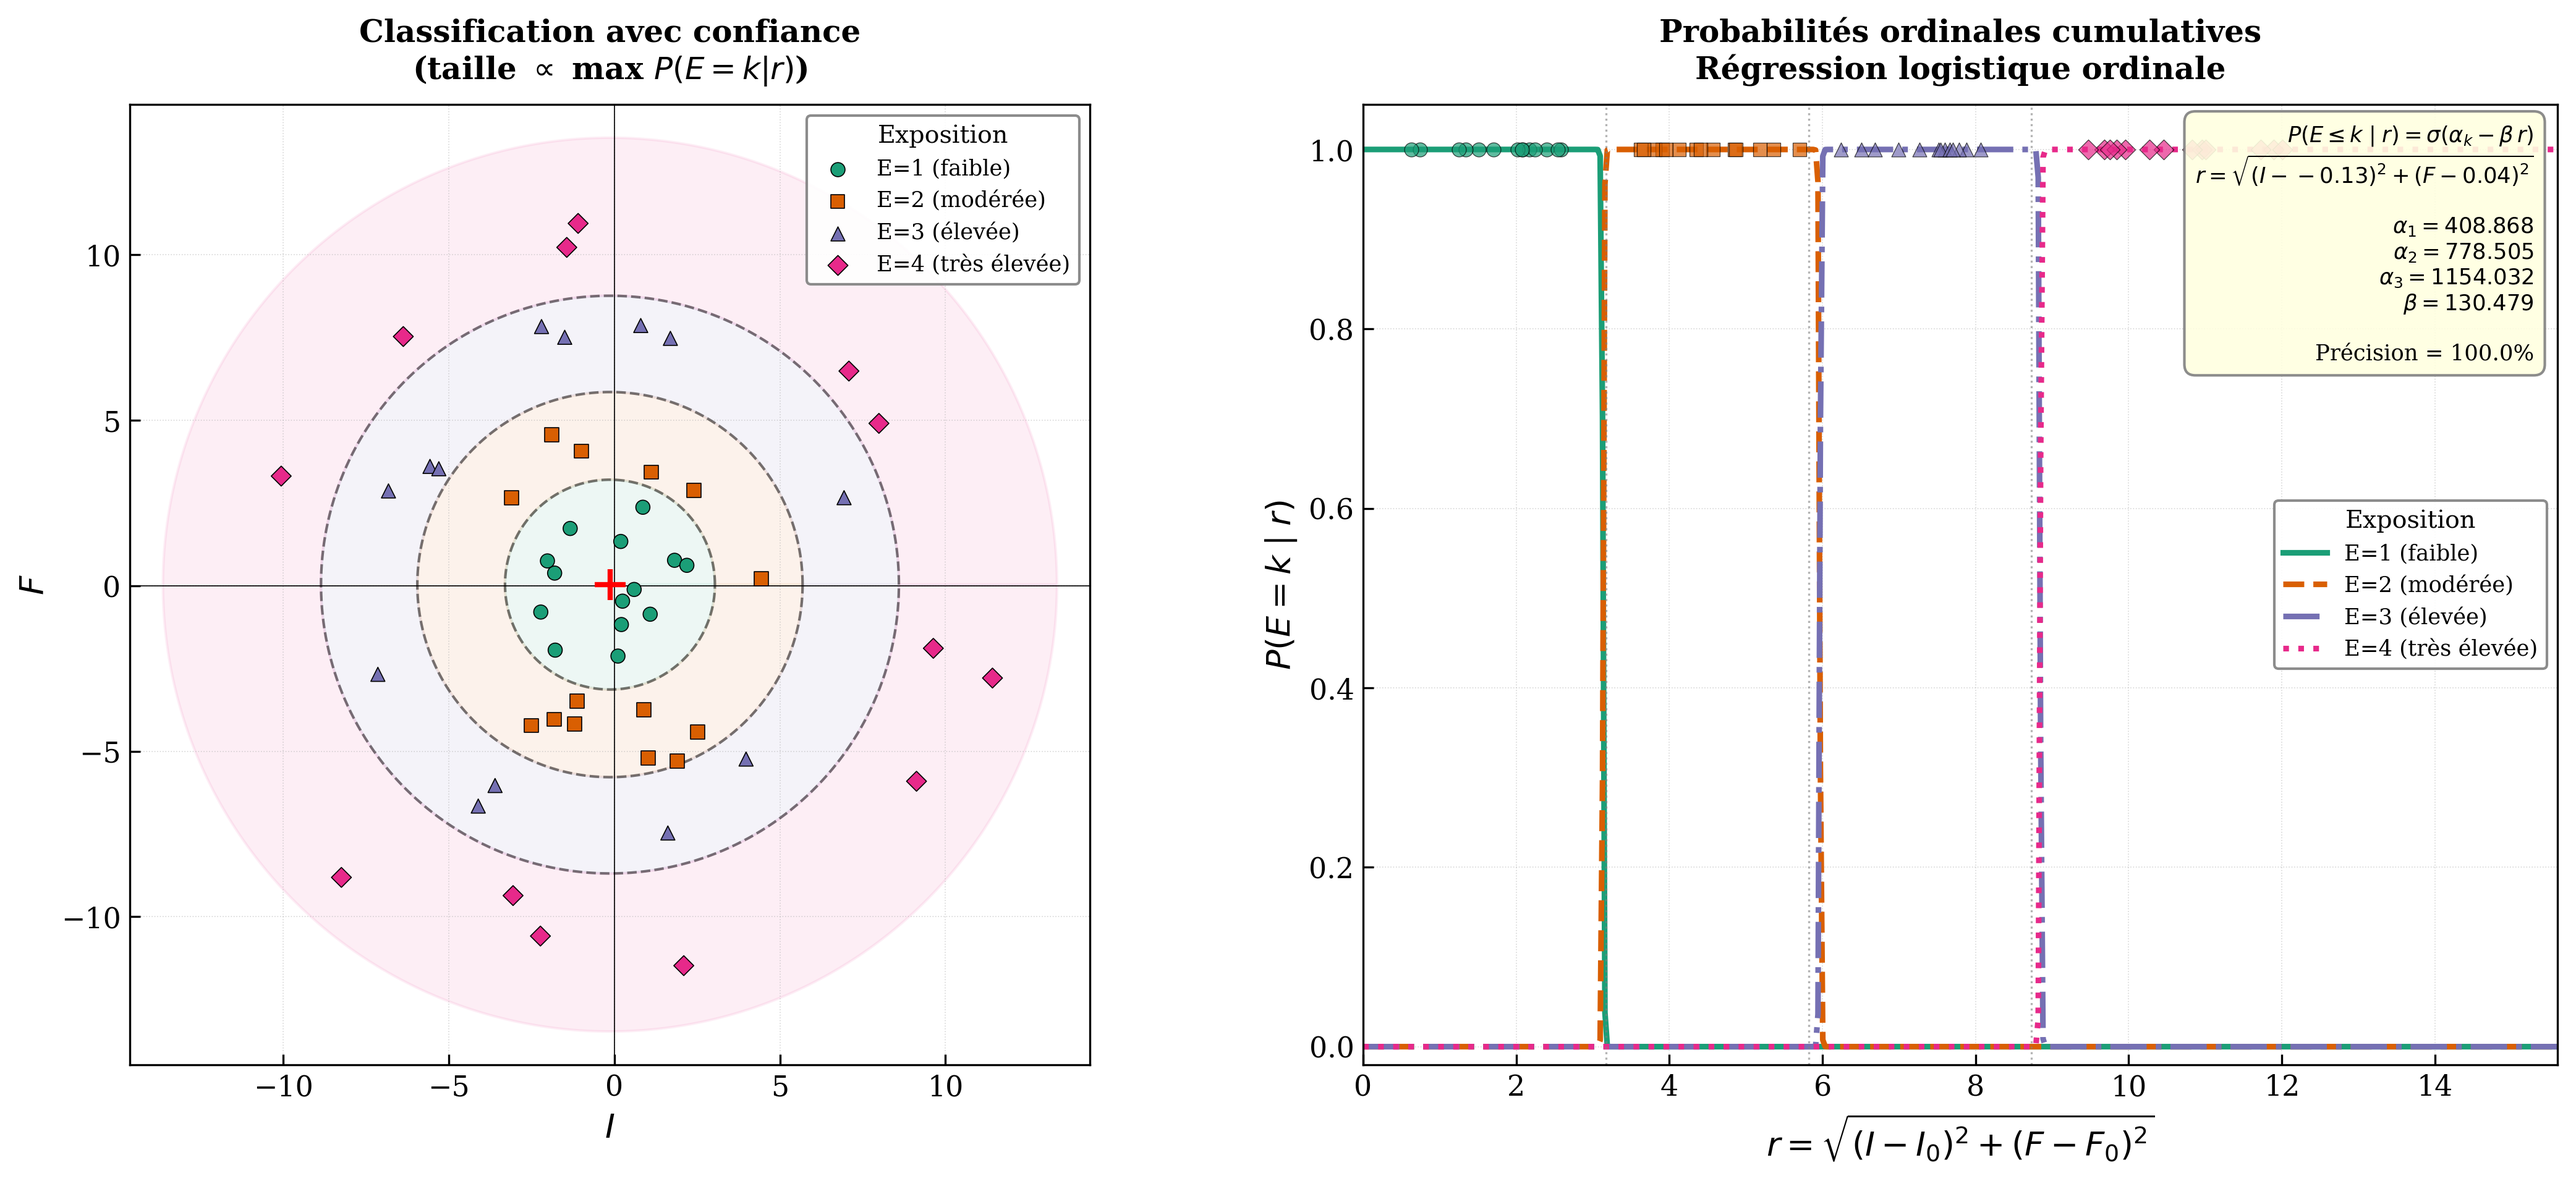
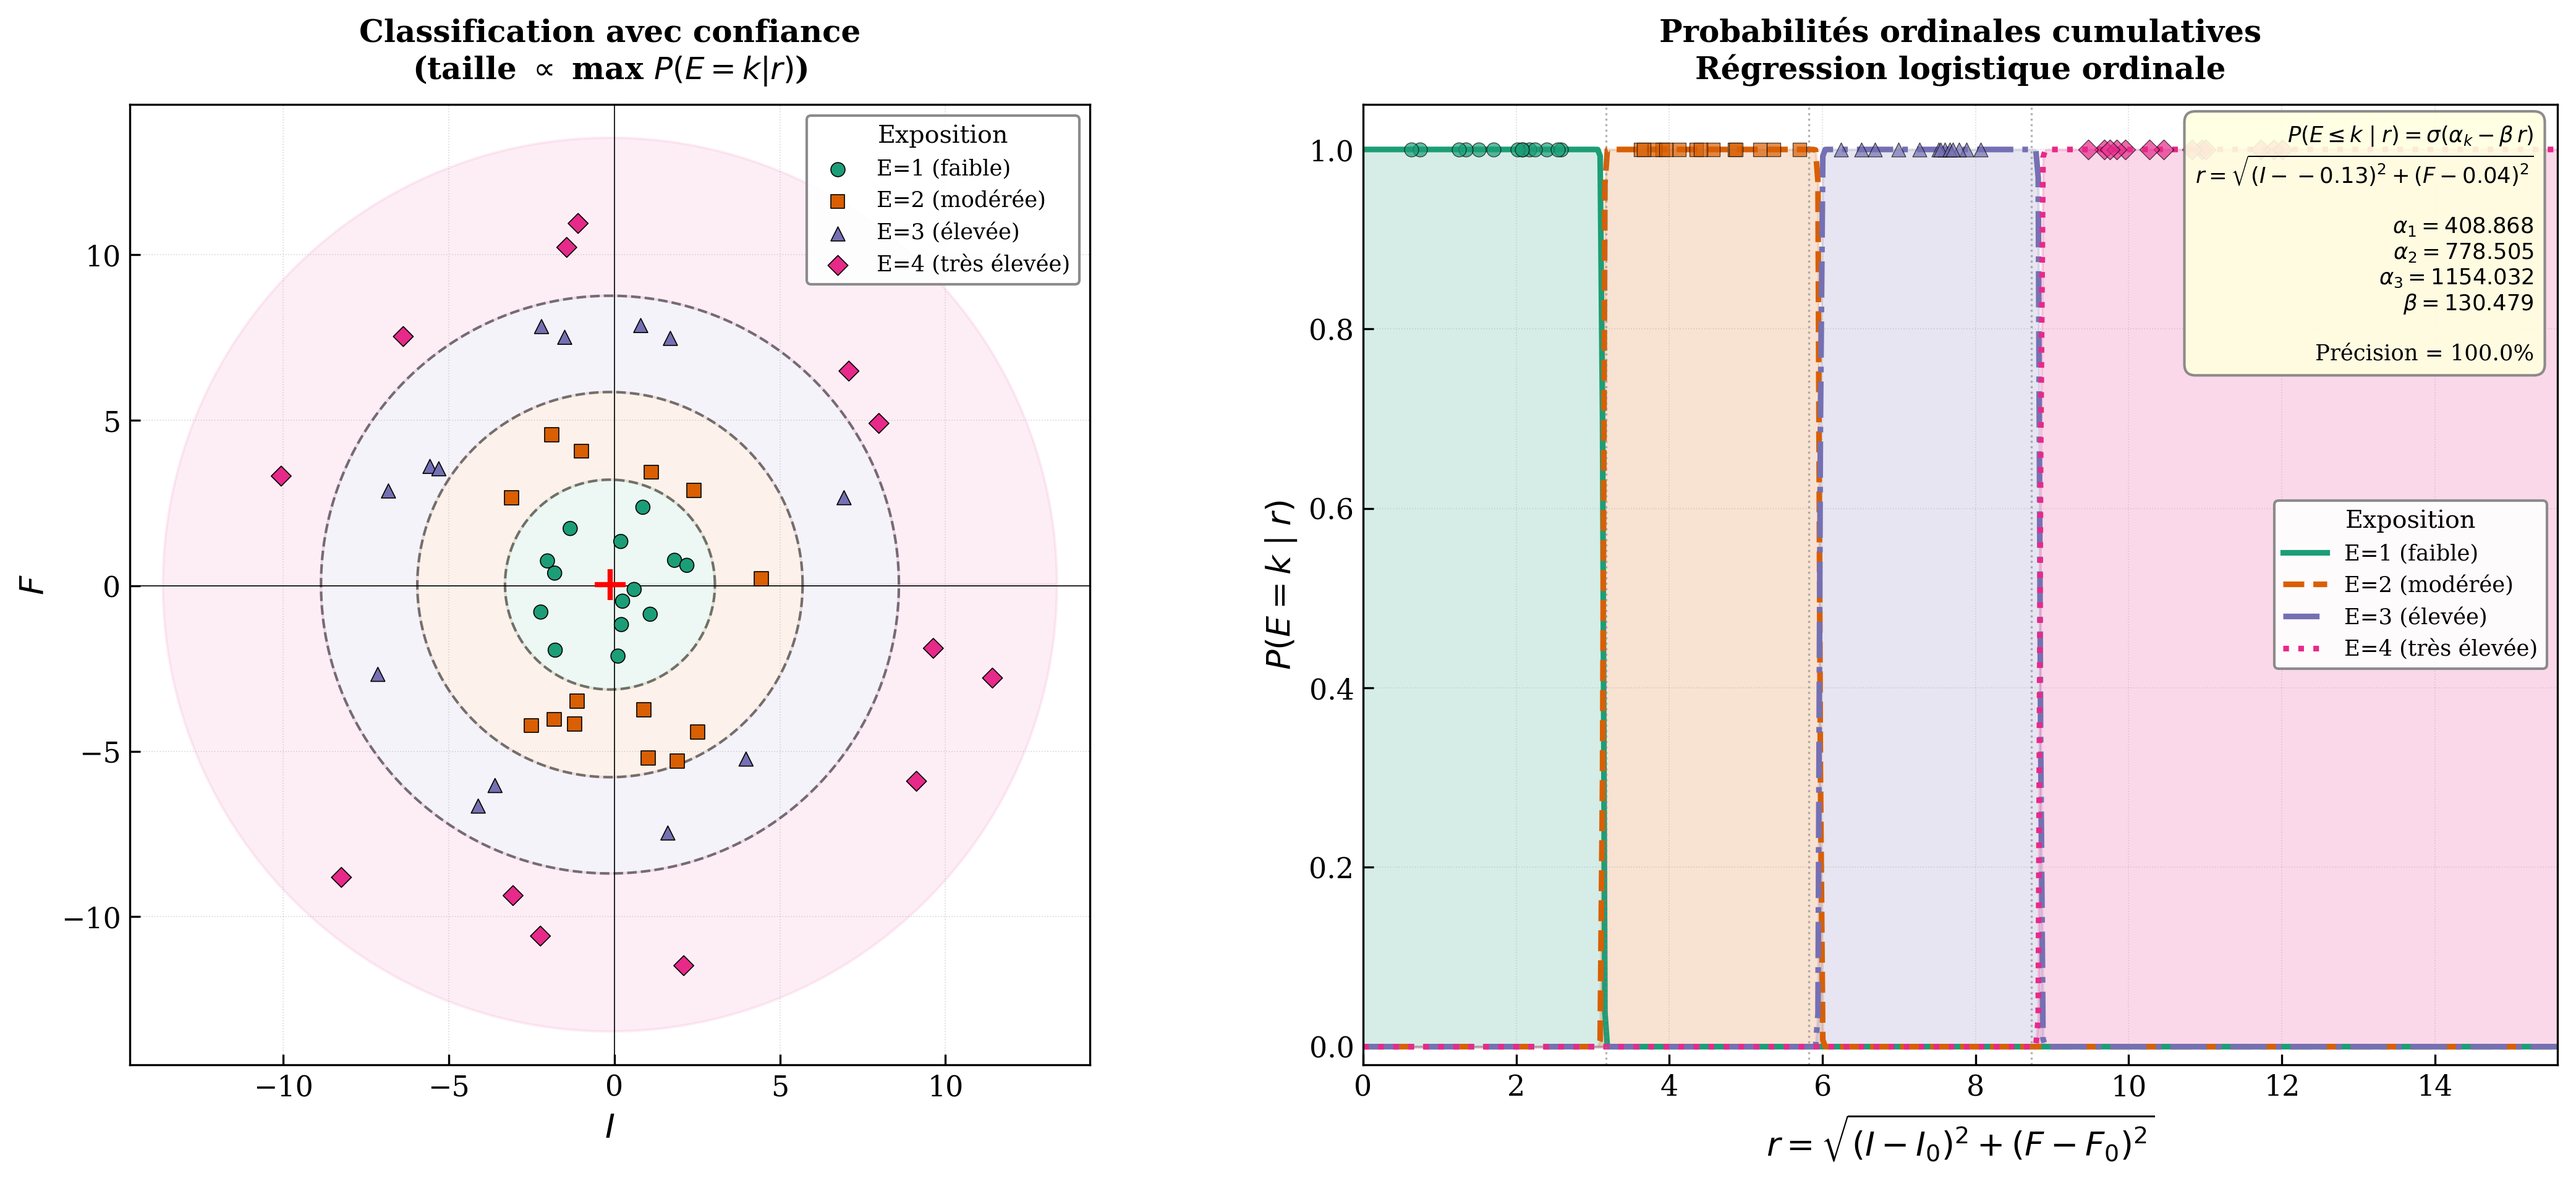
Fill area under probability curves on sigmoid plot
Made-with: Cursor

Changed region(s): [[0.5304, 0.1235, 0.9983, 0.8953]]

diff --git a/boundary_decision_prediction.py b/boundary_decision_prediction.py
@@ -421,9 +421,11 @@ def plot_ordinal_probabilities(df: pd.DataFrame, radii: np.ndarray,
 
     line_styles = ["-", "--", "-.", ":"]
     for k in range(4):
+        ax2.fill_between(r_smooth, probs_smooth[:, k],
+                         color=CLASS_COLORS[k + 1], alpha=0.18, zorder=1)
         ax2.plot(r_smooth, probs_smooth[:, k],
                  color=CLASS_COLORS[k + 1], lw=2.2, ls=line_styles[k],
-                 label=EXPOSURE_LABELS[k + 1])
+                 label=EXPOSURE_LABELS[k + 1], zorder=2)
 
     for rv in radii:
         ax2.axvline(rv, color="grey", lw=0.8, ls=":", alpha=0.6)
